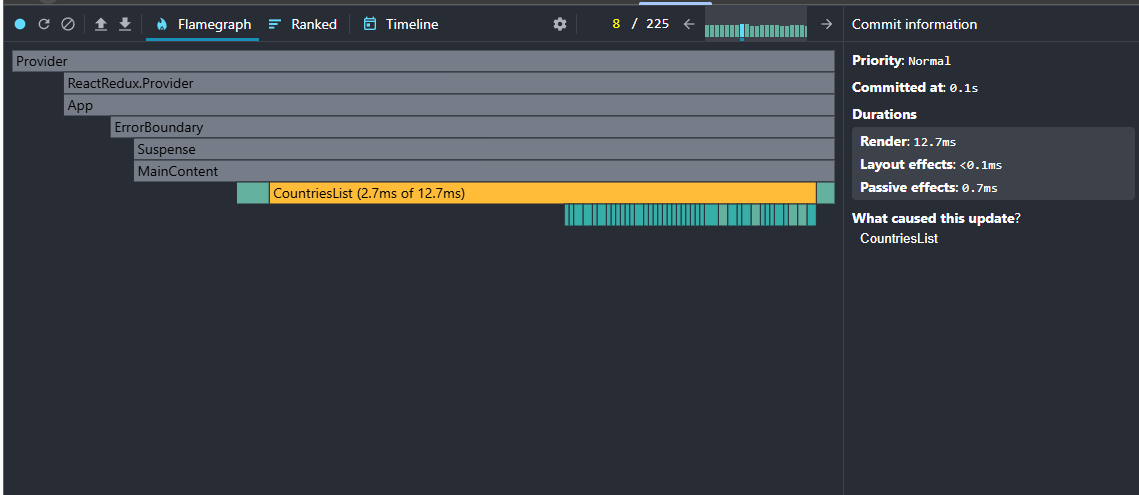
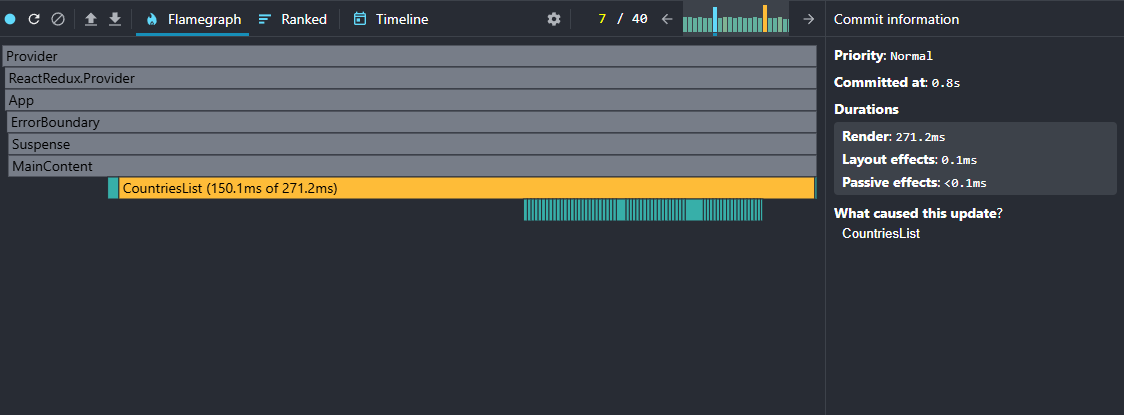
feat: add opmized data to report sorting and year

Changed region(s): [[0.0, 0.0, 1.0, 1.0]]

diff --git a/README.md b/README.md
@@ -9,7 +9,7 @@ Shown difference of such interaction:
 - Sorting +
   - by population
   - by country name
-- Change year selection +
+- Change year selection
 - Filtering by region +
 - Searching countries +
 - Opening whole table of county +
@@ -45,11 +45,11 @@ Profiler not capture interactions so only Commit and Render analyzed
 
 #### Commit Duration:
 
-0.1s
+0.8s
 
 #### Render Duration:
 
-12.7ms
+271.2ms
 
 #### Interactions:
 
@@ -208,3 +208,73 @@ Profiler not capture interactions so only Commit and Render analyzed
 ![alt text](./screen-to-report/image-15.png)
 
 ## After Optimization
+
+### Change year selection
+
+#### Commit Duration:
+
+1s
+
+#### Render Duration:
+
+15.3ms
+
+#### Interactions:
+
+Profiler not capture interactions so only Commit and Render analyzed
+
+#### Flame Graph:
+
+![alt text](./screen-to-report/image-16.png)
+
+#### Ranked Chart:
+
+![alt text](./screen-to-report/image-17.png)
+
+---
+
+### Sorting by population
+
+#### Commit Duration:
+
+1s
+
+#### Render Duration:
+
+15.3ms
+
+#### Interactions:
+
+Profiler not capture interactions so only Commit and Render analyzed
+
+#### Flame Graph:
+
+![alt text](./screen-to-report/image-18.png)
+
+#### Ranked Chart:
+
+![alt text](./screen-to-report/image-19.png)
+
+---
+
+### Sorting by country name
+
+#### Commit Duration:
+
+0.9s
+
+#### Render Duration:
+
+20.3ms
+
+#### Interactions:
+
+Profiler not capture interactions so only Commit and Render analyzed
+
+#### Flame Graph:
+
+![alt text](./screen-to-report/image-20.png)
+
+#### Ranked Chart:
+
+![alt text](./screen-to-report/image-21.png)
